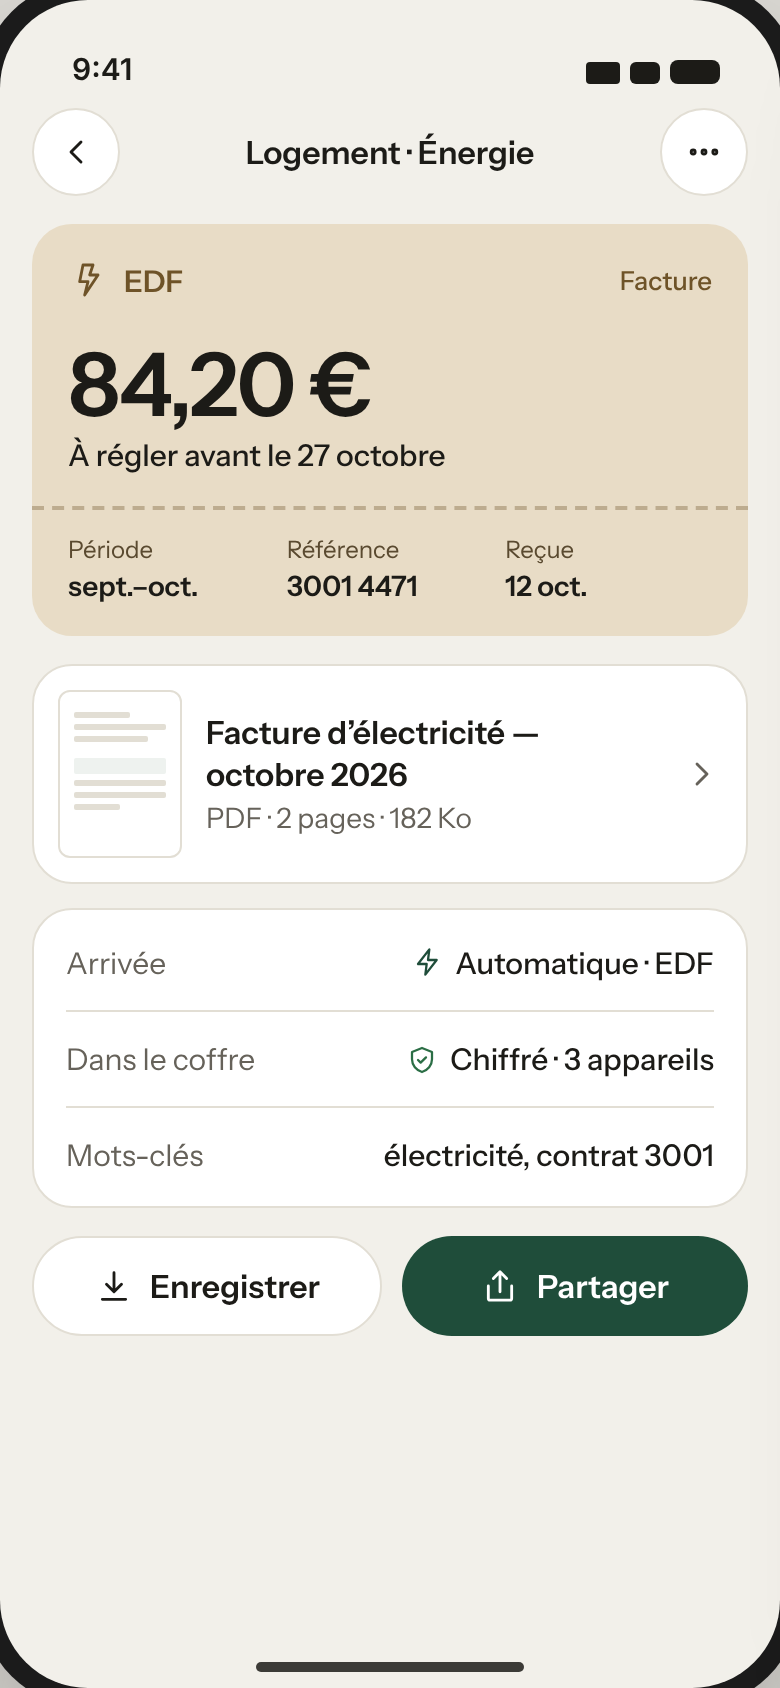
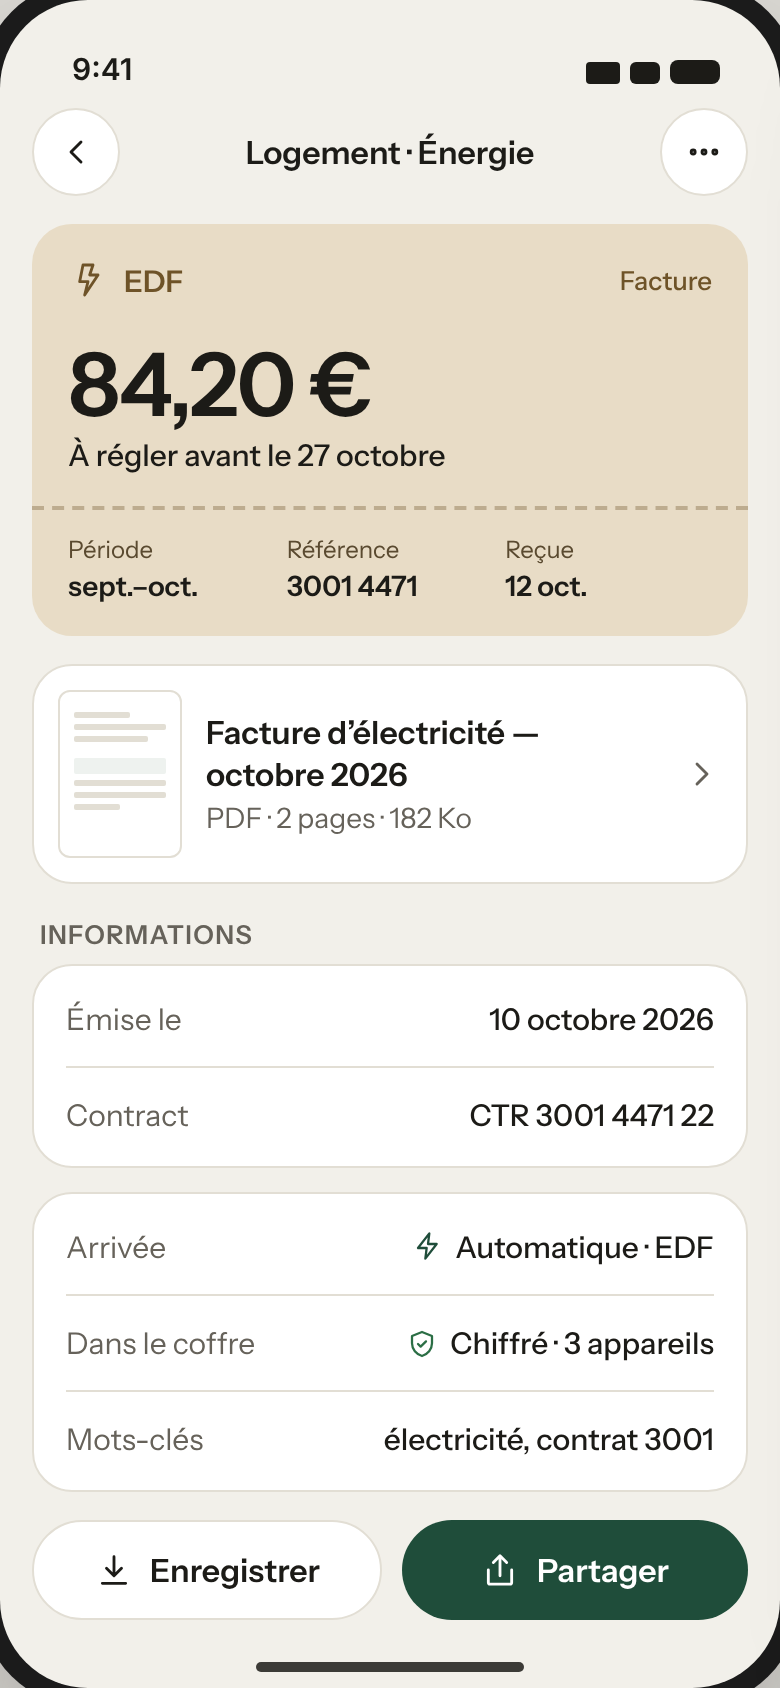
Design how a document's attributes are shown
Fill the document pass (V6, V6b, D2) from the SDK's attributes instead of the
name-only template: each template names the default attribute behind every
slot (issuer, total_amount, due_on, net_pay, tax_amount, period_start/end,
reference...), applies only when its headline attribute is set, and drops
cells no attribute backs (hours, tax shares, reference tax income, a
booking's route, car and seat). Add an "Informations" section listing every
attribute the pass doesn't show, labelled for default attributes and by name
for the others, formatted by type. Rows get their issuer and amount back.
Updates the template sheet, V6, V6b and D2, and the contact sheets.

Claude-Session: https://claude.ai/code/session_011depZpcAzLD2CwC52tTWgG

diff --git a/design/assets/mockups/vault.html b/design/assets/mockups/vault.html
@@ -206,10 +206,10 @@ mark{background:var(--hl);color:inherit;border-radius:3px;padding:0 2px}
 <!-- Pass templates -->
 <div class="board"><p class="caption-board">Modèles de cartes par type (pattern, not a screen)</p>
 <div class="fyde" data-shot="../sheets/modeles-cartes" style="width:390px;padding:20px 0 6px;background:var(--bg);font-family:var(--font);color:var(--text);border-radius:24px">
- <div class="passmini" style="--cbg:var(--c-work);--ci:var(--c-work-i)"><div class="top"><span class="row" style="gap:8px"><svg class="ic"><use href="#i-brief"/></svg>Pajemploi</span><span style="font-weight:500">Bulletin de paie</span></div><p class="big">1 912,44 €</p><p style="font:500 14px var(--font)">Net à payer · septembre 2026</p><div class="meta"><div>Brut<b>2 450,00 €</b></div><div>Heures<b>151,67</b></div><div>Employeur<b>M. Martin</b></div></div></div>
- <div class="passmini" style="--cbg:var(--c-tax);--ci:var(--c-tax-i)"><div class="top"><span class="row" style="gap:8px"><svg class="ic"><use href="#i-landmark"/></svg>impots.gouv</span><span style="font-weight:500">Avis d’imposition</span></div><p class="big">+ 312 €</p><p style="font:500 14px var(--font)">Remboursement prévu fin août</p><div class="meta"><div>Revenus<b>2025</b></div><div>Réf. fiscal<b>41 280 €</b></div><div>Parts<b>2</b></div></div></div>
- <div class="passmini" style="--cbg:var(--c-home);--ci:var(--c-home-i)"><div class="top"><span class="row" style="gap:8px"><svg class="ic"><use href="#i-shield"/></svg>MAIF</span><span style="font-weight:500">Attestation</span></div><p class="big" style="font-size:26px;line-height:32px">Valide jusqu’au<br>31 déc. 2026</p><div class="meta"><div>Contrat<b>Habitation</b></div><div>N°<b>3712 99</b></div><div>Reçue<b>1 oct.</b></div></div></div>
- <div class="passmini" style="--cbg:var(--c-trans);--ci:var(--c-trans-i)"><div class="top"><span class="row" style="gap:8px"><svg class="ic"><use href="#i-train"/></svg>SNCF Connect</span><span style="font-weight:500">Réservation</span></div><p class="big" style="font-size:28px">Paris → Lyon</p><p style="font:500 14px var(--font)">Jeu. 18 sept. · 08:04</p><div class="meta"><div>Voiture<b>12</b></div><div>Place<b>64</b></div><div>Prix<b>49,00 €</b></div></div></div>
+ <div class="passmini" style="--cbg:var(--c-work);--ci:var(--c-work-i)"><div class="top"><span class="row" style="gap:8px"><svg class="ic"><use href="#i-brief"/></svg>Pajemploi</span><span style="font-weight:500">Bulletin de paie</span></div><p class="big">1 912,44 €</p><p style="font:500 14px var(--font)">Net à payer · septembre 2026</p><div class="meta"><div>Brut<b>2 450,00 €</b></div><div>Référence<b>BP-2026-09</b></div><div>Reçu<b>3 oct.</b></div></div></div>
+ <div class="passmini" style="--cbg:var(--c-tax);--ci:var(--c-tax-i)"><div class="top"><span class="row" style="gap:8px"><svg class="ic"><use href="#i-landmark"/></svg>impots.gouv</span><span style="font-weight:500">Avis d’imposition</span></div><p class="big">+ 312 €</p><p style="font:500 14px var(--font)">Remboursement · prévu le 29 août</p><div class="meta"><div>Revenus<b>2025</b></div><div>Référence<b>26 75 1234567</b></div><div>Reçu<b>4 août</b></div></div></div>
+ <div class="passmini" style="--cbg:var(--c-home);--ci:var(--c-home-i)"><div class="top"><span class="row" style="gap:8px"><svg class="ic"><use href="#i-shield"/></svg>MAIF</span><span style="font-weight:500">Attestation</span></div><p class="big" style="font-size:26px;line-height:32px">Valide jusqu’au<br>31 déc. 2026</p><div class="meta"><div>Référence<b>3712 99</b></div><div>Émise<b>28 sept.</b></div><div>Reçue<b>1 oct.</b></div></div></div>
+ <div class="passmini" style="--cbg:var(--c-trans);--ci:var(--c-trans-i)"><div class="top"><span class="row" style="gap:8px"><svg class="ic"><use href="#i-train"/></svg>SNCF Connect</span><span style="font-weight:500">Réservation</span></div><p class="big" style="font-size:24px;line-height:30px">Billet Paris → Lyon</p><p style="font:500 14px var(--font)">Émis le 2 sept.</p><div class="meta"><div>Référence<b>QXH7PL</b></div><div>Reçu<b>2 sept.</b></div><div>Format<b>PDF</b></div></div></div>
  <div class="passmini" style="--cbg:var(--c-none);--ci:var(--c-none-i)"><div class="top"><span class="row" style="gap:8px"><svg class="ic"><use href="#i-doc"/></svg>Ajouté par vous</span><span style="font-weight:500">À classer</span></div><p class="big" style="font-size:24px;line-height:30px">Contrat de bail — scan</p><div class="meta" style="grid-template-columns:1fr 1fr"><div>Pages<b>6</b></div><div>Ajouté<b>9 oct.</b></div></div></div>
 </div></div>
 

diff --git a/design/assets/mockups/core.html b/design/assets/mockups/core.html
@@ -138,7 +138,12 @@
  </div>
  <div class="thumbrow"><div class="mini"><i style="width:60%"></i><i></i><i style="width:80%"></i><i style="margin-top:8px;height:8px;background:#EEF2EF"></i><i></i><i></i><i style="width:50%"></i></div>
   <div class="grow"><p style="font:600 16px/21px var(--font)">Facture d’électricité — octobre 2026</p><p style="font:400 14px var(--font);color:var(--muted);margin-top:2px">PDF · 2 pages · 182 Ko</p></div><svg class="ic" style="color:var(--muted)"><use href="#i-chev-r"/></svg></div>
- <div class="list">
+ <p style="font:600 13px/18px var(--font);color:var(--muted);letter-spacing:.05em;text-transform:uppercase;padding:16px 20px 6px">Informations</p>
+ <div class="list" style="margin-top:0">
+  <div class="kv"><span>Émise le</span><b>10 octobre 2026</b></div>
+  <div class="kv"><span>Contract</span><b>CTR 3001 4471 22</b></div>
+ </div>
+ <div class="list" style="margin-top:12px">
   <div class="kv"><span>Arrivée</span><b class="row" style="gap:6px"><svg class="ic sm" style="color:var(--primary)"><use href="#i-bolt"/></svg>Automatique · EDF</b></div>
   <div class="kv"><span>Dans le coffre</span><b class="row" style="gap:6px"><svg class="ic sm" style="color:var(--ok)"><use href="#i-shield"/></svg>Chiffré · 3 appareils</b></div>
   <div class="kv"><span>Mots-clés</span><b>électricité, contrat 3001</b></div>
@@ -161,7 +166,12 @@
  </div>
  <div class="thumbrow"><div class="mini"><i style="width:60%"></i><i></i><i style="width:80%"></i><i style="margin-top:8px;height:8px;background:#EEF2EF"></i><i></i><i></i><i style="width:50%"></i></div>
   <div class="grow"><p style="font:600 16px/21px var(--font)">Facture d’électricité — octobre 2026</p><p style="font:400 14px var(--font);color:var(--muted);margin-top:2px">PDF · 2 pages · 182 Ko</p></div><svg class="ic" style="color:var(--muted)"><use href="#i-chev-r"/></svg></div>
- <div class="list">
+ <p style="font:600 13px/18px var(--font);color:var(--muted);letter-spacing:.05em;text-transform:uppercase;padding:16px 20px 6px">Informations</p>
+ <div class="list" style="margin-top:0">
+  <div class="kv"><span>Émise le</span><b>10 octobre 2026</b></div>
+  <div class="kv"><span>Contract</span><b>CTR 3001 4471 22</b></div>
+ </div>
+ <div class="list" style="margin-top:12px">
   <div class="kv"><span>Arrivée</span><b class="row" style="gap:6px"><svg class="ic sm" style="color:var(--primary)"><use href="#i-bolt"/></svg>Automatique · EDF</b></div>
   <div class="kv"><span>Dans le coffre</span><b class="row" style="gap:6px"><svg class="ic sm" style="color:var(--ok)"><use href="#i-shield"/></svg>Chiffré · 3 appareils</b></div>
   <div class="kv"><span>Mots-clés</span><b>électricité, contrat 3001</b></div>

diff --git a/design/assets/mockups/desktop.html b/design/assets/mockups/desktop.html
@@ -49,6 +49,11 @@
    <div style="flex:1;display:flex;gap:24px;padding:24px 28px;overflow:hidden">
     <div style="width:360px;flex:none">
      <div class="pass" style="margin:0;--cbg:var(--c-home);--ci:var(--c-home-i)"><div class="top"><span class="row" style="gap:8px"><svg class="ic"><use href="#i-zap"/></svg>EDF</span><span style="font:500 13px var(--font)">Facture</span></div><p class="big">84,20 €</p><p class="due">À régler avant le 27 octobre</p><div class="perf"></div><div class="meta"><div>Période<b>sept.–oct.</b></div><div>Référence<b>3001 4471</b></div><div>Reçue<b>12 oct.</b></div></div></div>
+     <p class="sec" style="padding:16px 0 6px">Informations</p>
+     <div class="group" style="margin:0">
+      <div class="kv"><span>Émise le</span><b>10 octobre 2026</b></div>
+      <div class="kv"><span>Contract</span><b>CTR 3001 4471 22</b></div>
+     </div>
      <div class="group" style="margin:14px 0 0">
       <div class="kv"><span>Arrivée</span><b class="row" style="gap:6px"><svg class="ic sm" style="color:var(--primary)"><use href="#i-bolt"/></svg>Automatique · EDF</b></div>
       <div class="kv"><span>Dans le coffre</span><b class="row" style="gap:6px"><svg class="ic sm" style="color:var(--ok)"><use href="#i-shield"/></svg>Chiffré · 3 appareils</b></div>

diff --git a/design/design-system.md b/design/design-system.md
@@ -24,7 +24,7 @@ the old palette and type, with the reference's layout, copy and proportions):
 | DO3, DO3b | Créer le coffre (Medium and Expanded; the stepper is left out until steps 2–4 exist, and a taken username is an error note, not a field error, until `FydeSdkException` carries the SDK's code) | `RegisterScreen.kt`, `AuthBrandPanel.kt`, `AppCheckbox`, `AppNote` |
 | O4, DO4b | Stockage indisponible (phone; desktop, at creation) | `InsecureStorageSheet.kt`, `AppBottomSheet`, `AlertTriangleGlyph` |
 | M1, M2, M3, M5, M6, M7, M8 | Moi as the Settings tab (still named Paramètres, like the other tabs' current names): drill-downs at Compact, master–detail at Medium and Expanded (menu as the 360 list column, Sécurité open by default). Left out until the SDK backs them: the profile card, M2's device tiles and the recovery-kit and password-check rows (so no M4), Aide, last-sync times in M5, Voir les offres in M6. M7 isn't persisted yet | `SettingsScreen.kt`, `SessionsSection.kt`, `PlanUsageSection.kt`, `AppDialog`, `SealHero`, `AppNote`, `AppRadio` |
-| V1, V3–V7, D1, D2, D6 | Coffre as the Vault tab: the home's category cards and latest arrivals (V1 at Compact, D6 at Expanded), a category's chips and month groups (V3, D1's card grid), the search (V4's type shortcuts, V5's Catégorie / Type / Année chips and highlighted results; opened from a circle, or a 300 field in D1's and D6's headers, within the category from a category page), a document's pass, facts and Enregistrer (V6, a page below Expanded; D2 at Expanded, beside its category's list with the content previewed in the rest of the window), V7's full-screen viewer below Expanded. The pass uses the name template, the SDK knowing no issuer or amount. Left out until the SDK backs them: amounts, issuers, keywords and thumbnails, the arrivals banner, the avatar, Partager, Reclasser, V8, V9 and swipe actions, the band's sources count, an "À classer" card, "à jour", the desktop sidebar, page counts, V4's recent searches, V5's Source facet, ⌘K | `VaultScreen.kt`, `VaultCategoryPage.kt`, `VaultSearchPage.kt`, `VaultDocumentPage.kt`, `DocumentPreview.kt`, `CategoryCard`, `CategoryBand`, `DocumentRow`, `DocumentCard`, `DocumentPass`, `AppChip`, `AppSearchField`, `AppDropdownMenu` |
+| V1, V3–V7, D1, D2, D6 | Coffre as the Vault tab: the home's category cards and latest arrivals (V1 at Compact, D6 at Expanded), a category's chips and month groups (V3, D1's card grid), the search (V4's type shortcuts, V5's Catégorie / Type / Année chips and highlighted results; opened from a circle, or a 300 field in D1's and D6's headers, within the category from a category page), a document's pass, Informations, facts and Enregistrer (V6, a page below Expanded; D2 at Expanded, beside its category's list with the content previewed in the rest of the window), V7's full-screen viewer below Expanded. The pass and Informations come from the document's attributes (see [Document pass](#document-pass)), as do rows' issuer and amount. Left out until the SDK backs them: keywords and thumbnails, the arrivals banner, the avatar, Partager, Reclasser, V8, V9 and swipe actions, the band's sources count, an "À classer" card, "à jour", the desktop sidebar, page counts, V4's recent searches, V5's Source facet, ⌘K | `VaultScreen.kt`, `VaultCategoryPage.kt`, `VaultSearchPage.kt`, `VaultDocumentPage.kt`, `DocumentPreview.kt`, `CategoryCard`, `CategoryBand`, `DocumentRow`, `DocumentCard`, `DocumentPass`, `AppChip`, `AppSearchField`, `AppDropdownMenu` |
 | S1–S7, D4 | Sources as the Sources tab: S1–S6 as pages at Compact and Medium, D4 at Expanded (a table sortable by source and état beside a 380 detail panel, `AppDimensions.sourceDetailPanelWidth`), S7 as an `AppDialog`. Statuses are this app session's runs only. Left out until the SDK backs them: S1's next run and per-row counts, S2's categories and "Le proposer", S3's Récupérer automatiquement, S5's stats, schedule, automatic switch, latest documents, pause and "Signaler un problème", S6's Saisir, D4's Dernier passage, Documents and Automatique columns | `SourcesTabScreen.kt`, `ConnectSourceScreen.kt`, `SourceFetchingScreen.kt`, `SourceStatus`, `RunStepper`, `AppCircleButton`, `AppDialog` |
 
 ## Reference screens
@@ -386,20 +386,54 @@ Plex Mono. Screen readers hear "3 sources choisies sur 5"; the count is announce
 ### Document pass
 
 The detail of a document is a pass in its category colours: issuer and type, a headline value
-in `passAmount`, one line under it, a perforation, and up to three meta cells. Templates by
-document type, each cell shown only when its attribute is set:
+in `passAmount`, one line under it, a perforation, and up to three meta cells. Every slot is
+filled from the document's attributes (`Metadata::attributes`, the server's default
+definitions: `issuer`, `issued_on`, `reference`, `period_start`, `period_end`, `total_amount`,
+`due_on`, `gross_pay`, `net_pay`, `tax_year`, `tax_amount`), never parsed from its name or
+content. A template applies only when its headline attribute is set; otherwise the document
+gets the "Autre" template. Cells are the first three set in the listed order; an unset one is
+skipped, never shown as "—".
 
 ![Pass templates](assets/sheets/modeles-cartes.png)
 
-| Document type | Headline | Line under | Meta cells |
-|---|---|---|---|
-| Facture | Amount | "À régler avant le …" / "Payée le …" | Période · Référence · Reçue |
-| Bulletin de paie | Net à payer | Month | Brut · Heures · Employeur |
-| Avis d'imposition | Remboursement (+) or montant dû | Expected date | Revenus · Réf. fiscal · Parts |
-| Attestation, carte | "Valide jusqu'au …" | — | Contrat · Numéro · Reçue |
-| Réservation | Route or place | Date and time | Voiture · Place · Prix |
-| Relevé, autre | Document name | Period | Pages · Reçu |
-| À classer | Document name | "Ajouté par vous" | Pages · Ajouté |
+| Document type | Top left | Headline | Line under | Meta cells, in order |
+|---|---|---|---|---|
+| Facture, reçu, récapitulatif de frais | `issuer` | `total_amount` | "À régler avant le `due_on`", else "Émise le `issued_on`" | Période · Référence · Reçue |
+| Bulletin de paie | `issuer` | `net_pay` | "Net à payer · " + the month of `period_start` | Brut (`gross_pay`) · Référence · Reçu |
+| Avis d'imposition | `issuer` | `tax_amount`: negative → "+ 312 €" and "Remboursement", positive → "Montant dû" | That word · "prévu le" / "avant le" `due_on` | Revenus (`tax_year`) · Référence · Reçu |
+| Relevé, décompte de remboursement | `issuer` | `total_amount` | Période | Référence · Émis · Reçu |
+| Attestation, carte | `issuer` | "Valide jusqu'au `period_end`" | — | Référence · Émise · Reçue |
+| Autre, or headline unset | `issuer`, else the source | Document name (`title`) | Période, else "Émis le `issued_on`" | Référence · Reçu · Format |
+| À classer | "Ajouté par vous" | Document name | — | Pages · Ajouté |
+
+- **Période** is `period_start`–`period_end` as one value: a whole month is "septembre 2026",
+  a whole year "2025", anything else "sept.–oct." (the year added only when they differ).
+  One end alone shows as "depuis le …" / "jusqu'au …".
+- **Reçu(e)** is the document's `created_at`; **Émis(e)** is `issued_on`. Labels agree with
+  the type's gender in French ("Reçue" for a facture, "Reçu" for a relevé).
+- Pass cells nobody can fill (hours, tax shares, reference tax income, a booking's route, car
+  and seat) are dropped until a default attribute exists for them.
+- Screen readers read the pass as one sentence: "Facture EDF, 84,20 €, à régler avant le 27
+  octobre, période septembre–octobre, référence 3001 4471, reçue le 12 octobre".
+
+### Informations
+
+Under the file row (V6) or the pass (D2), an "Informations" section lists, one `kv` row each,
+every attribute the pass doesn't already show: each value appears once, on the pass or here.
+The section is hidden when nothing is left.
+
+- Order: default attributes in the order above, then any other attribute (one a script or the
+  user defined) by name.
+- Labels: default attributes have wording in every language ("Émise le", "Référence",
+  "Montant TTC", "Échéance", "Brut", "Net à payer", "Revenus", "Impôt", "Émetteur",
+  "Période"). Any other attribute shows its name with underscores as spaces and the first
+  letter capitalised (`contract` → "Contract"): the server's definition descriptions are
+  English sentences, not labels.
+- Values by type: an amount in IBM Plex Mono, in the locale's format with its currency, never
+  rounded; a date in full ("10 octobre 2026"); an integer as a number (`tax_year` without
+  grouping); a float in the locale's decimals; a boolean as "Oui" / "Non"; a select as its
+  selected value; a string as is. Values never truncate: a long one wraps under its label.
+- Read-only: editing an attribute is not designed yet.
 
 ### Classification suggestion
 
@@ -479,8 +513,8 @@ The tables hold each screen's content and states; how screens lead to one anothe
 | V3 | Catégorie | Category band; subcategory chips with counts; year chips; month groups of document rows | Sort newest or oldest first (`SearchOrder`; amount and name need the SDK); rows swipe to Partager / Reclasser, also in V8 |
 | V4 | Recherche | Full-screen field, recent searches, type shortcuts | Opened from any search icon |
 | V5 | Résultats | Facet chips Catégorie / Type / Année / Source; matched words highlighted; "Recherche faite sur cet appareil" | No result → clear filters |
-| V6 | Document | Pass, file row with thumbnail, facts (arrivée, chiffré, mots-clés), Enregistrer / Partager | See [Document pass](#document-pass) |
-| V6b | Document (sombre) | V6 in the dark theme: the pass on its dark category fill | Dark reference for passes |
+| V6 | Document | Pass, file row with thumbnail, Informations (the attributes not on the pass), facts (arrivée, chiffré, mots-clés), Enregistrer / Partager | See [Document pass](#document-pass) and [Informations](#informations) |
+| V6b | Document (sombre) | V6 in the dark theme: the pass on its dark category fill, Informations on `surface` | Dark reference for passes |
 | V7 | Lecteur | Full-screen dark viewer, zoom, pages, share | No preview → "Ouvrir avec…" |
 | V8 | Actions | Sheet: Partager, Enregistrer dans Fichiers, Renommer, Reclasser, Informations techniques, Supprimer de tous mes appareils | Delete confirms that it reaches every device |
 | V8b | Actions (sombre) | V8 in the dark theme | Dark reference for sheets and the scrim |
@@ -553,7 +587,7 @@ How the account screens connect is in [`screen-map.md`](screen-map.md#moi-m1m12)
 | ID | Screen | Layout |
 |---|---|---|
 | D1 | Catégorie | Sidebar · header, search, Importer · subcategory pills · 4-column cards with first-page thumbnails |
-| D2 | Document | Sidebar · 400dp list · pass and facts · live preview |
+| D2 | Document | Sidebar · 400dp list · pass, Informations and facts · live preview |
 | D3 | Arrivées | Sidebar · queue with inline code card · preview · classification panel with C'est bon (Enter) |
 | D4 | Sources | Sidebar · sortable table (source, état, dernier passage, documents, appareil) · detail panel with Appareil · Changer |
 | D4b | Source en cours | D4 with the selected source running: "Récupération… 5 / 12" in the table, the panel's live stepper ("En cours · lancée à 14:58") and an outlined Arrêter in Lancer's place; another row shows the Stopped status ("Arrêtée · 3 gardés") |
@@ -619,8 +653,9 @@ Screens compose `App*` components and never style a raw Material 3 component. Ta
 | `AppTabBar` | New | Replaces `AppNavigationBar` |
 | `AppSidebar` | New | Replaces `AppNavigationTopBar` and `AppNavigationRail`; selected row = fill + 3dp `primary` leading bar + SemiBold |
 | `CategoryCard`, `CategoryBand` | Landed (V1, V3) | Card: 132 tall (`AppDimensions.categoryCardHeight`) on the category's fill, a 38 `categoryTile` square (white at 62%, both themes) with the icon in ink and the count in ink above the name (`section`) and the newest document (`caption`, `categoryCaption`); one control for screen readers; `CategoryCardPlaceholder` while loading. Band: 52 tile, name in `title`, count under it. Glyphs in `CategoryGlyphs.kt`, the category → fill, ink and icon mapping in `VaultCategories.kt`. Still the current card radius |
-| `DocumentRow`, `DocumentCard` | Landed (V3, V5, D1, D2) | Row: the category's tile (fill and ink; no thumbnails yet), title (`bodyEmphasis`, matched words on `highlight`), subtitle, date; `selected` fills it with the category (D2). Amount and pending are left out until the SDK carries them. Card: D1's grid cell, a preview well holding the tile, then title and date |
-| `DocumentPass` | Landed (V6, D2) | Issuer and type in ink, headline in `passAmount` (`DocumentPassHeadline.Value`) or `title` for a name, the line under it, a dashed perforation in ink at 40%, up to three `DocumentPassCell`s. The caller picks the template; today only "Relevé, autre" (the SDK has no amounts, issuers or references yet) |
+| `DocumentRow`, `DocumentCard` | Landed (V3, V5, D1, D2) | Row: the category's tile (fill and ink; no thumbnails yet), title (`bodyEmphasis`, matched words on `highlight`), subtitle (`issuer` · date, the date alone without an issuer), the pass's headline amount at the end in `data` (nothing when the template has no amount); `selected` fills it with the category (D2). Pending is left out until the SDK carries it. Card: D1's grid cell, a preview well holding the tile, then title and date |
+| `DocumentPass` | Landed (V6, D2) | Issuer and type in ink, headline in `passAmount` (`DocumentPassHeadline.Value`) or `title` for a name, the line under it, a dashed perforation in ink at 40%, up to three `DocumentPassCell`s. The caller picks the template from the document's type and attributes (see [Document pass](#document-pass)) |
+| `DocumentAttributes` | New (V6, D2) | The [Informations](#informations) section: a `section` heading and a `surface` group of label / value rows, values formatted by attribute type, amounts in `data` |
 | `ArrivalsBanner`, `ClassificationSuggestion` | New | — |
 | `OneTimeCodeField` | New | See [Verification code](#verification-code) |
 | `SourceStatus`, `RunStepper` | Landed (S1, DO7c) | See [Source status](#source-status). `SourceStatus`: 12 glyph and caption Medium in the state's colour (spinner `primary`, clock `warning`, alert `error`, check `success`, muted stop square when stopped, muted clock when queued). `RunStepper`'s stopped step: the dot on `sunk` with a `borderStrong` ring and the stop square in `textMuted`, later steps idle |
@@ -651,6 +686,7 @@ left out (principle 5), not faked.
 | Replay progress and per-device last seen | O9, M5, M2 |
 | First-page thumbnails | V3, D1, D2 |
 | Sorting by amount or name | V3, D1 |
+| Default attributes for the dropped pass cells (hours, tax shares, reference tax income, a booking's route, car and seat) | V6, D2 |
 | Script categories and popularity | O7, DO7, S2 chips and groups |
 | Stopping a run in progress (a stop call that ends the script at its next instruction, request, browser wait or question, and a "stopped" outcome distinct from a failure). Dropping the run's future doesn't stop its script today | S4, S4b, S5b, S8, code sheet, DO7d, D4b |
 | Renaming a session | M5 |
